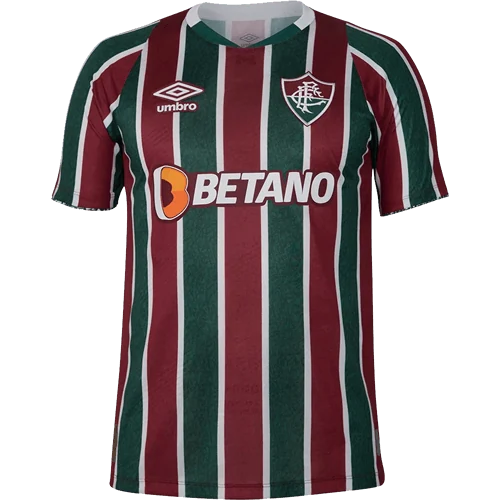
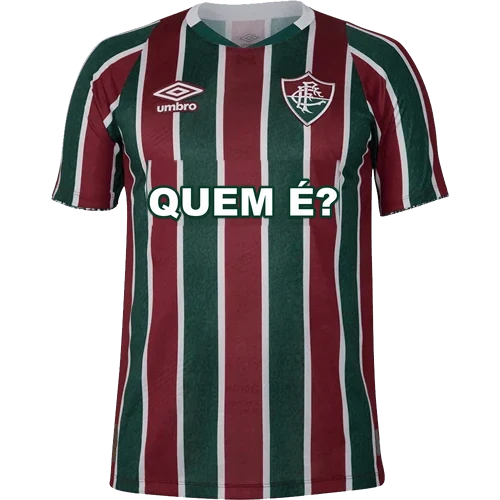
Camisas da home: nome do jogo no lugar do patrocinador do peito

Changed region(s): [[0.27, 0.33, 0.69, 0.45]]

diff --git a/tools/kits_text.py b/tools/kits_text.py
@@ -1,0 +1,70 @@
+# Apaga o patrocinador do peito de cada camisa e escreve o nome do jogo no lugar.
+# Origem: tools/kits-orig/kit-<clube>.webp  ->  saída: src/assets/kit-<clube>.webp
+import cv2, numpy as np
+from PIL import Image, ImageDraw, ImageFont
+F="/System/Library/Fonts/Supplemental/"
+BLACK,NARROW,BOLD=F+"Arial Black.ttf",F+"Arial Narrow Bold.ttf",F+"Arial Bold.ttf"
+# clube: (nome do jogo, caixa do patrocinador, origem do clone (dx,dy) ou ("row",x) ou None=inpaint, cor do texto, contorno|None, fonte)
+K={
+"flamengo":("DRAFT",(136,152,284,186),("row",130),"#fff",None,BLACK),
+"real-madrid":("LEILÃO",(166,138,358,228),(0,95),"#14213d",None,BLACK),
+"palmeiras":("MALETA",(150,196,340,240),(0,50),"#fff",None,BLACK),
+"barcelona":("RECONSTRUINDO",(178,185,268,280),(0,95),"#ffd21f","#0b1b4d",NARROW),
+"corinthians":("CAMISA E CONTA",(136,136,286,206),(0,75),"#111",None,NARROW),
+"man-utd":("CARREIRA",(156,150,314,240),None,"#fff",None,BLACK),
+"sao-paulo":("QUESTIONAMENTOS",(160,246,340,292),(0,50),"#14213d",None,NARROW),
+"liverpool":("FORCA",(166,168,324,230),(0,70),"#fff",None,BLACK),
+"santos":("JOGO DA VELHA",(176,180,344,270),(0,95),"#111",None,NARROW),
+"bayern":("ENTROSAMENTO",(198,148,300,262),None,"#fff","#b00012",NARROW),
+"gremio":("PIRÂMIDE",(160,200,336,270),(0,70),"#fff","#111",BLACK),
+"juventus":("TOP 10",(170,146,316,216),(0,65),"#fff","#111",BLACK),
+"internacional":("TOP 100",(155,144,346,200),(0,70),"#fff",None,BLACK),
+"ac-milan":("FUTGEO",(165,180,340,252),(0,75),"#fff","#111",BLACK),
+"fluminense":("QUEM É?",(146,160,340,226),(0,70),"#fff","#0b3b2a",BLACK),
+"psg":("GRADE",(172,165,316,230),(0,70),"#fff",None,BLACK),
+"vasco":("CONEXÕES",(155,190,340,240),(22,60),"#fff","#111",BLACK),
+"chelsea":("BODLE",(150,150,270,205),"none","#fff",None,BLACK),
+"botafogo":("IMPOSTOR",(156,200,326,270),(0,75),"#fff","#111",BLACK),
+"arsenal":("ESCUDO",(166,160,352,244),(0,85),"#fff",None,BLACK),
+"cruzeiro":("BINGO",(136,146,292,196),(0,55),"#fff",None,BLACK),
+"dortmund":("MAIS VELHO?",(190,166,325,276),(0,115),"#111",None,BLACK),
+}
+def erase(a,box,src):
+    x0,y0,x1,y1=box
+    if src=="none":return a
+    m=np.zeros(a.shape[:2],np.float32)
+    if src is None:
+        mask=np.zeros(a.shape[:2],np.uint8);mask[y0:y1,x0:x1]=255
+        return cv2.inpaint(a[:,:,:3],mask,6,cv2.INPAINT_TELEA) if False else np.dstack([cv2.inpaint(np.ascontiguousarray(a[:,:,:3]),mask,6,cv2.INPAINT_TELEA),a[:,:,3]])
+    b=a.copy()
+    if src[0]=="row":
+        col=a[y0:y1,src[1]:src[1]+1];b[y0:y1,x0:x1]=np.repeat(col,x1-x0,axis=1)
+    else:
+        dx,dy=src;b[y0:y1,x0:x1]=a[y0+dy:y1+dy,x0+dx:x1+dx]
+    m[y0:y1,x0:x1]=1;m=cv2.GaussianBlur(m,(0,0),1.6)[...,None]
+    return (a*(1-m)+b*m).astype(np.uint8)
+TW={"bayern":172,"barcelona":170}
+def text(im,name,box,col,stroke,font,club):
+    S=4;x0,y0,x1,y1=box;cx,cy=(x0+x1)/2,(y0+y1)/2
+    W=TW.get(club,x1-x0);Hh=y1-y0
+    lines=[name]
+    if " " in name and len(name)>9:
+        w=name.split(" ");h=len(w)//2+ (len(w)%2);lines=[" ".join(w[:h]) if len(w)<3 else " ".join(w[:2])," ".join(w[h:]) if len(w)<3 else " ".join(w[2:])]
+    best=None
+    for sz in range(60,5,-1):
+        f=ImageFont.truetype(font,sz*S);ws=[f.getlength(l) for l in lines]
+        if max(ws)<=W*S*1.0 and sz*S*1.05*len(lines)<=max(Hh,34)*S*1.1:best=(f,ws,sz);break
+    f,ws,sz=best
+    ov=Image.new("RGBA",(im.width*S,im.height*S),(0,0,0,0));d=ImageDraw.Draw(ov)
+    lh=sz*S*1.02;y=cy*S-lh*len(lines)/2
+    for l,w in zip(lines,ws):
+        d.text((cx*S-w/2,y),l,font=f,fill=col,stroke_width=int(sz*S*0.07) if stroke else 0,stroke_fill=stroke or col);y+=lh
+    ov=ov.resize(im.size,Image.LANCZOS)
+    sh=Image.new("RGBA",im.size,(0,0,0,0));sh.paste((0,0,0,70),(0,1),ov.split()[3]);im=Image.alpha_composite(im,sh)
+    return Image.alpha_composite(im,ov)
+for club,(name,box,src,col,stroke,font) in K.items():
+    im=Image.open(f"tools/kits-orig/kit-{club}.webp").convert("RGBA")
+    a=erase(np.array(im),box,src)
+    out=text(Image.fromarray(a),name,box,col,stroke,font,club)
+    out.save(f"src/assets/kit-{club}.webp","WEBP",quality=88,method=4)
+    print(club,name)
